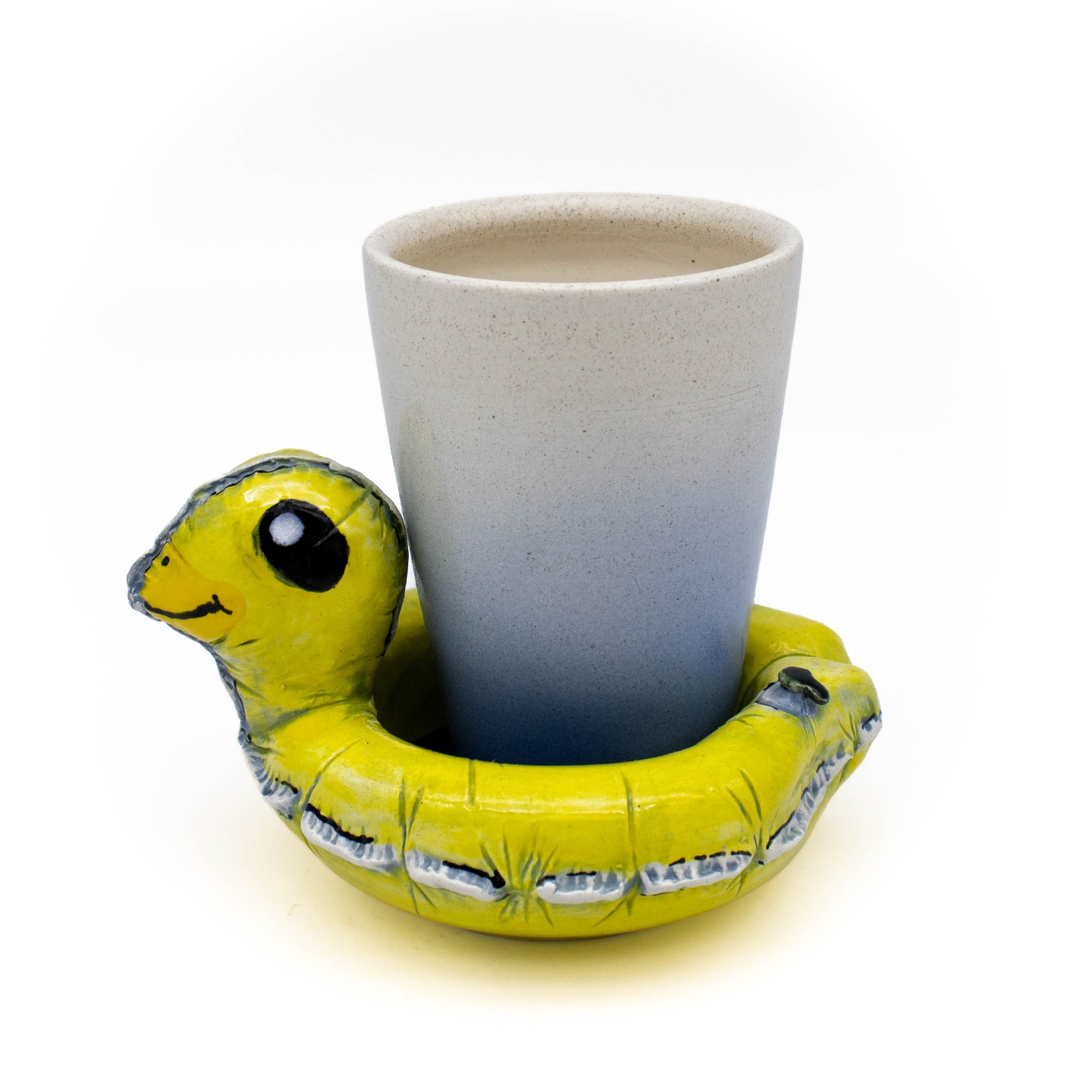
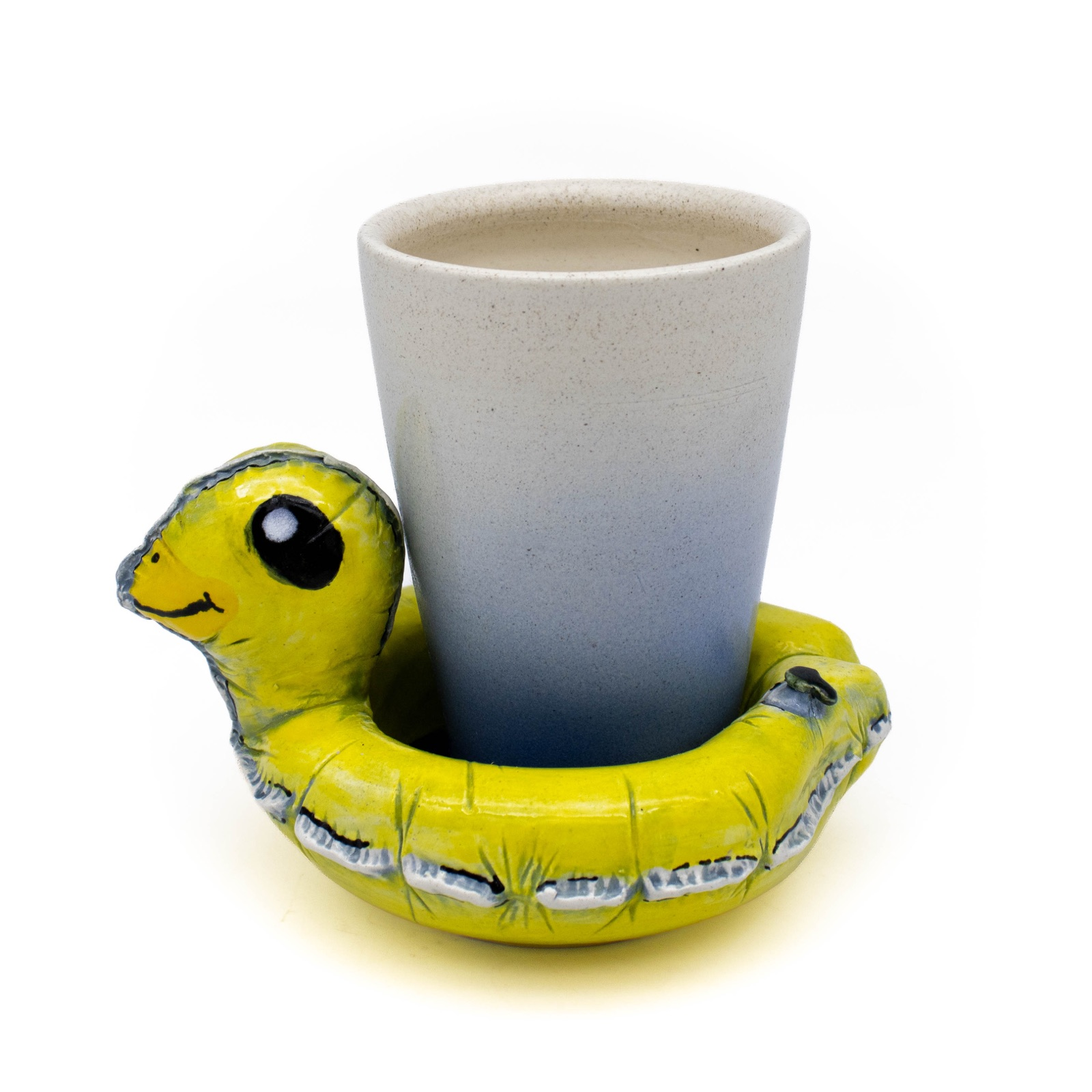
Replace Duck Cup I cover with updated photo

Changed region(s): [[0.0938, 0.3438, 0.8125, 0.9062], [0.3125, 0.1562, 0.75, 0.375], [0.2812, 0.5312, 0.3125, 0.5625]]

diff --git a/a-childs-idea-of-rescue.html b/a-childs-idea-of-rescue.html
@@ -2,7 +2,7 @@
 <html lang="en"><head><meta charset="utf-8"/><meta content="width=device-width,initial-scale=1" name="viewport"/><meta content="Ceramic cups by Joey Downey exploring safety, trust, and the promise of protection through the playful form of a life preserver." name="description"/><title>A Child’s Idea of Rescue | Joey Downey</title><link rel="icon" type="image/png" sizes="192x192" href="/favicon.png?v=jd-restored-20261031"/><link rel="apple-touch-icon" href="/favicon.png?v=jd-restored-20261031"/><style>500;600&family=Manrope:wght@400;500;600&display=swap');
 :root{--ink:#171717;--muted:#777;--border:#e7e7e7;--white:#fff}*{box-sizing:border-box}html{scroll-behavior:smooth}body{margin:0;background:#fff;color:var(--ink);font-family:Manrope,Arial,sans-serif;font-size:14px;line-height:1.75}a{color:inherit;text-decoration:none}a:hover{opacity:.6}img{display:block;max-width:100%}button{font:inherit}header{height:88px;border-bottom:1px solid var(--border);display:flex;align-items:center;justify-content:space-between;padding:0 5%;background:white;position:sticky;top:0;z-index:10}.brand{font-family:"Helvetica Neue",Helvetica,Arial,sans-serif;font-size:32px;letter-spacing:.06em;font-weight:200}.brand small{display:block;font-size:9px;font-weight:400;letter-spacing:.2em;color:var(--muted);text-transform:uppercase;margin-top:-4px}.nav{display:flex;gap:31px;align-items:center}.nav a{font-family:"Helvetica Neue",Helvetica,Arial,sans-serif;font-size:16px;font-weight:200;letter-spacing:.06em;text-transform:uppercase}.nav a.active{text-decoration:underline;text-underline-offset:7px}.menu{display:none;background:none;border:0;font-size:26px;cursor:pointer}.wrap{width:min(1300px,90%);margin:auto}.eyebrow{text-transform:uppercase;letter-spacing:.2em;font-size:10px;color:var(--muted);margin:0 0 24px}.home-hero{padding-top:80px;padding-bottom:105px;display:grid;grid-template-columns:40% 1fr;gap:6%;align-items:center}.home-hero h1{font-size:clamp(56px,8vw,125px);line-height:1.02;letter-spacing:-.07em;font-weight:400;margin:0 0 35px}.home-hero p.lead{max-width:360px;font-size:14px;color:#555;line-height:2}.home-image{height:610px;overflow:hidden}.home-image img{width:100%;height:100%;object-fit:contain}.arrow-link{display:inline-flex;gap:24px;align-items:center;font-size:11px;text-transform:uppercase;letter-spacing:.13em;border-bottom:1px solid #222;padding-bottom:10px;margin-top:21px}.section{padding:90px 0;border-top:1px solid var(--border)}.section-title{font-size:clamp(35px,5.5vw,70px);font-weight:400;letter-spacing:-.06em;line-height:1.15;margin:0 0 30px}.section-top{display:flex;justify-content:space-between;gap:35px;align-items:end;margin-bottom:40px}.section-top .section-title{margin:0}.section-top p{max-width:320px;color:#666;margin:0}.grid{display:grid;grid-template-columns:repeat(3,minmax(0,1fr));gap:55px 26px}.item img{height:390px;width:100%;object-fit:contain;background:#fff;transition:transform .25s}.item:hover img{transform:scale(1.025)}.item{cursor:pointer}.item-title{font-size:14px;font-weight:500;margin:17px 0 2px}.item-desc{color:#888;font-size:11px;margin:0}.split{display:grid;grid-template-columns:1fr 1fr;gap:10%;align-items:center}.split img{width:100%;height:530px;object-fit:contain}.split-text{max-width:550px}.split-text p{color:#555;line-height:2;font-size:14px}.quote{font-size:clamp(33px,5vw,76px);line-height:1.2;letter-spacing:-.05em;font-weight:400;max-width:950px;margin:0 0 34px}.statement-preview p{color:#666;max-width:640px}.events{border-top:1px solid var(--border)}.event{border-bottom:1px solid var(--border);padding:25px 0;display:grid;grid-template-columns:125px 1fr 235px;gap:20px;align-items:start}.event small,.event .place{color:#888;font-size:11px}.event h3{font-size:17px;font-weight:500;margin:0 0 5px}.event p{margin:0;color:#777;font-size:12px}.event .place{text-align:right}.page-hero{padding-top:85px;padding-bottom:70px}.page-hero h1{font-family:"Helvetica Neue",Helvetica,Arial,sans-serif;font-size:clamp(57px,9vw,125px);line-height:1.05;letter-spacing:.06em;font-weight:200;margin:0 0 20px}.page-hero p:last-child{max-width:570px;color:#666}.page-body{padding-bottom:110px}.prose{max-width:750px;font-size:16px;color:#484848;line-height:2.2}.prose p{margin:0 0 26px}.prose .quote{color:#171717;font-size:clamp(35px,6vw,78px);margin:0 0 60px}.about-layout{display:grid;grid-template-columns:42% 1fr;gap:9%;align-items:start}.portrait{width:100%;object-fit:cover;max-height:700px}.detail-heading{font-size:24px;font-weight:400;margin:50px 0 14px}.cvline{padding:16px 0;border-top:1px solid var(--border);font-size:13px}.cvline:last-child{border-bottom:1px solid var(--border)}.contact-email{font-size:clamp(27px,4.5vw,64px);letter-spacing:-.055em;overflow-wrap:anywhere;border-bottom:1px solid #222;display:inline-block;margin:45px 0}.contact-links{display:flex;gap:35px;font-size:12px;text-transform:uppercase;letter-spacing:.1em}.end-cta{padding:85px 0;border-top:1px solid var(--border)}.end-cta h2{font-size:clamp(32px,5vw,60px);font-weight:400;letter-spacing:-.055em;margin:0}.footer{border-top:1px solid var(--border);padding:30px 5%;display:flex;justify-content:space-between;gap:25px;color:#777;font-size:10px;letter-spacing:.04em}.lightbox{position:fixed;inset:0;z-index:99;background:rgba(255,255,255,.98);display:none;align-items:center;justify-content:center;flex-direction:column;padding:70px 5% 45px}.lightbox.show{display:flex}.lightbox img{max-width:90vw;max-height:75vh;object-fit:contain}.lightbox p{font-size:12px}.lightbox button{cursor:pointer;background:white;border:1px solid #ddd;padding:8px 15px}.lightbox .close{position:absolute;right:5%;top:25px;border:0;font-size:25px}.lightbox-controls{display:flex;gap:15px}@media(max-width:850px){header{height:72px}.menu{display:block}.nav{display:none;position:absolute;top:72px;left:0;right:0;flex-direction:column;align-items:flex-start;background:white;padding:24px 5%;border-bottom:1px solid #eee}.nav.open{display:flex}.home-hero{grid-template-columns:1fr;padding-top:50px;gap:35px}.home-image{height:480px}.grid{grid-template-columns:repeat(2,1fr)}.split,.about-layout{grid-template-columns:1fr;gap:35px}.split img{height:460px}.event{grid-template-columns:90px 1fr}.event .place{text-align:left;grid-column:2}.section{padding:70px 0}}@media(max-width:540px){.grid{grid-template-columns:1fr}.item img{height:440px}.section-top{display:block}.section-top p{margin-top:20px}.footer{flex-direction:column}.home-image{height:380px}.page-hero{padding-top:55px}.about-layout .portrait{max-height:470px}}
 .lightbox-images{display:flex;align-items:center;justify-content:center;gap:24px;width:100%;min-height:0}.lightbox-images img{min-width:0;max-width:100%;max-height:72vh;object-fit:contain}.lightbox-images.has-detail img{width:calc(50% - 12px)}.lightbox-images img[hidden]{display:none}@media(max-width:600px){.lightbox{overflow-y:auto}.lightbox-images.has-detail{flex-direction:column;gap:16px}.lightbox-images.has-detail img{width:100%;max-height:34vh}.lightbox-images:not(.has-detail) img{max-height:70vh}}#lb-caption{width:100%;max-width:900px;text-align:center;flex-shrink:0}#lb-title{font-weight:500;margin:14px 0 4px}#lb-details{font-size:12px;line-height:1.65;margin:0}#lb-details[hidden]{display:none}.lightbox{overflow-y:auto}.lightbox-images{flex:1;min-height:0}.lightbox-images img{max-height:60vh}@media(max-width:600px){.lightbox-images.has-detail img{max-height:27vh}.lightbox-images:not(.has-detail) img{max-height:55vh}}.lightbox-images.has-three img{width:calc((100% - 48px)/3)}@media(max-width:600px){.lightbox-images.has-three{flex-direction:row;flex-wrap:wrap;gap:12px}.lightbox-images.has-three img{width:calc(50% - 6px);max-height:24vh}.lightbox-images.has-three img:first-child{width:100%}}.page-hero h1,.home-hero h1{font-size:clamp(42px,6vw,76px);color:var(--ink)}h1,h2,h3,h4,h5,h6,p.eyebrow{color:var(--ink)}.page-hero h1,.home-hero h1,h1,h2,h3,h4,h5,h6,p.eyebrow{color:#484848}</style><style id="heading-typography">h1,h2,h3,h4,h5,h6{font-family:"Helvetica Neue",Helvetica,Arial,sans-serif!important;font-weight:200!important;letter-spacing:.06em!important}</style><style id="back-to-top-styles">.back-to-top{position:fixed;right:24px;bottom:24px;z-index:20;display:inline-flex;align-items:center;gap:10px;padding:12px 16px;border:1px solid #d9d9d9;background:#fff;color:#171717;box-shadow:0 2px 12px #0000000d;font:inherit;font-size:11px;letter-spacing:.06em;cursor:pointer}.back-to-top[hidden]{display:none}.back-to-top:hover{background:#f4f4f4}.back-to-top:focus-visible{outline:2px solid #171717;outline-offset:3px}@media(max-width:540px){.back-to-top{right:16px;bottom:16px}}</style>
-<style>.artwork-availability,.purchase-inquiry{display:block;margin:14px 0 0;font-size:11px;line-height:1.6;letter-spacing:.02em}.artwork-availability{color:#888}.purchase-inquiry{color:#333;text-decoration:underline;text-underline-offset:4px;width:fit-content;padding:4px 0}.purchase-inquiry:hover{color:#000}.purchase-inquiry:focus-visible{outline:2px solid #333;outline-offset:5px}#lb-availability{margin-top:16px}#lb-availability .purchase-inquiry{color:inherit;margin:0 auto;padding:0;font-size:12px;line-height:1.65;letter-spacing:normal}#lb-availability:empty{display:none}.artwork-nav{position:fixed;top:50%;transform:translateY(-50%);z-index:10;display:grid;place-items:center;width:46px;height:56px;padding:0;border:1px solid #ccc;border-radius:4px;background:#eee;color:#666;font-family:Arial,sans-serif;font-size:40px;line-height:1;cursor:pointer}.artwork-prev{left:16px}.artwork-next{right:16px}.artwork-nav:hover{background:#444;border-color:#444;color:#fff}.artwork-nav:focus-visible{outline:2px solid #888;outline-offset:4px}@media(max-width:600px){.artwork-nav{width:36px;height:46px;font-size:32px}.artwork-prev{left:8px}.artwork-next{right:8px}}</style><style id="home-nav-styles">.nav .home-nav{display:block;opacity:1;visibility:visible;flex-shrink:0}@keyframes home-nav-fade{from{opacity:0}to{opacity:1}}.home-nav-enter .nav a,.home-nav-enter header>.brand{animation:home-nav-fade 1.2s ease}@media(min-width:851px) and (max-width:1100px){header .brand{font-size:26px}.nav{gap:16px}.nav a{font-size:13px}}@media(prefers-reduced-motion:reduce){.nav .home-nav,.home-nav-enter .nav a,.home-nav-enter header>.brand{animation:none}}</style><style id="home-return-fade">.home-nav-leave header>.brand,.home-nav-leave .nav a{animation:none!important;opacity:0;transition:opacity .4s ease}@media(prefers-reduced-motion:reduce){.home-nav-leave header>.brand,.home-nav-leave .nav a{transition:none}}</style><style id="home-transition-pending">.home-nav-pending header>.brand,.home-nav-pending .nav a{opacity:0}@media(prefers-reduced-motion:reduce){.home-nav-pending header>.brand,.home-nav-pending .nav a{opacity:1}}</style><link rel="stylesheet" href="navigation.css?v=1"/><script src="navigation.js?v=3"></script><style>.lightbox-images.has-many{display:grid;grid-template-columns:repeat(3,minmax(0,1fr));gap:16px;flex:0 0 auto}.lightbox-images.has-many img,.lightbox-images.has-many img:first-child{width:100%;height:25vh;max-height:25vh}@media(max-width:600px){.lightbox-images.has-many{grid-template-columns:repeat(2,minmax(0,1fr));gap:10px}.lightbox-images.has-many img,.lightbox-images.has-many img:first-child{height:19vh;max-height:19vh}}</style><style>.item-price{display:inline-block;margin-top:8px;color:#484848;font-size:13px;font-weight:500}</style></head><body><header><a class="brand" href="index.html">JOEY DOWNEY<small>Contemporary ceramic sculpture</small></a><button aria-expanded="false" aria-label="Toggle menu" class="menu">☰</button><nav class="nav"><a class="home-nav" href="index.html">Home</a><details class="portfolio-menu"><summary class="active">Portfolio <svg aria-hidden="true" width="10" height="6" viewBox="0 0 10 6" fill="none"><path d="m1 1 4 4 4-4" stroke="currentColor" stroke-width="1.2"/></svg></summary><div class="portfolio-options"><a href="portfolio.html">Portfolio</a><a href="a-childs-idea-of-rescue.html" aria-current="page">A Child’s Idea of Rescue</a></div></details><a class="" href="statement.html">Statement</a><a class="" href="about.html">About</a><a class="" href="exhibitions.html">Exhibitions</a><a class="" href="contact.html">Contact</a></nav></header><main><div class="wrap"><section class="page-hero rescue-hero"><p class="eyebrow">Cups · 2026</p><h1>A Child’s Idea of Rescue</h1><div class="rescue-introduction"><p>This series explores the fragile relationship between safety, trust, and the expectations we place upon the things we believe will protect us.</p><p>Drawing upon the familiar form of a life preserver, an object designed to offer security in moments of vulnerability, the work presents a contradiction between the promise of protection and the reality of its limitations. Its recognizable, playful imagery evokes a sense of innocence and familiarity while quietly questioning the reliability of the structures we depend upon.</p></div></section><section class="page-body" aria-label="Cup collection"><div class="grid"><div class="artwork-card"><article class="item" role="button" tabindex="0" aria-label="View Lion Cup" data-title="Lion Cup" data-full="cups/IMG_8681.jpg" data-detail="cups/IMG_8682.jpg" data-third="cups/IMG_8683.jpg"><img alt="Lion Cup by Joey Downey" loading="lazy" src="assets/cups/IMG_8681.jpg"/><h3 class="item-title">Lion Cup</h3><p class="item-desc">Earthenware, glaze, underglaze<br/>5.5&quot; x 6&quot; x 5.5&quot;<br/>2026<br/><span class="item-price">$250</span></p></article></div><div class="artwork-card"><article class="item" role="button" tabindex="0" aria-label="View Chicken Cup" data-title="Chicken Cup" data-full="cups/IMG_8720.jpg" data-detail="cups/IMG_8722.jpg" data-third="cups/IMG_8721.jpg"><img alt="Chicken Cup by Joey Downey" loading="lazy" src="assets/cups/IMG_8720.jpg"/><h3 class="item-title">Chicken Cup</h3><p class="item-desc">Earthenware, glaze, underglaze<br/>5.5&quot; x 6&quot; x 5.5&quot;<br/>2026<br/><span class="item-price">$250</span></p></article></div><div class="artwork-card"><article class="item" role="button" tabindex="0" aria-label="View Giraffe Cup" data-title="Giraffe Cup" data-full="cups/IMG_8689.jpg" data-detail="cups/IMG_8690.jpg"><img alt="Giraffe Cup by Joey Downey" loading="lazy" src="assets/cups/IMG_8689.jpg"/><h3 class="item-title">Giraffe Cup</h3><p class="item-desc">Earthenware, glaze, underglaze<br/>5.5&quot; x 6&quot; x 5.5&quot;<br/>2026<br/><span class="item-price">$250</span></p></article></div><div class="artwork-card"><article class="item" role="button" tabindex="0" aria-label="View Puffin Cup" data-title="Puffin Cup" data-full="cups/IMG_8684.jpg" data-detail="cups/IMG_8686.jpg"><img alt="Puffin Cup by Joey Downey" loading="lazy" src="assets/cups/IMG_8684.jpg"/><h3 class="item-title">Puffin Cup</h3><p class="item-desc">Earthenware, glaze, underglaze<br/>5.5&quot; x 6&quot; x 5.5&quot;<br/>2026<br/><span class="item-price">$250</span></p></article></div><div class="artwork-card"><article class="item" role="button" tabindex="0" aria-label="View Duck Cup II" data-title="Duck Cup II" data-full="cups/IMG_8679.jpg" data-detail="cups/IMG_8680.jpg"><img alt="Duck Cup II by Joey Downey" loading="lazy" src="assets/cups/IMG_8679.jpg"/><h3 class="item-title">Duck Cup II</h3><p class="item-desc">Earthenware, glaze, underglaze<br/>5.5&quot; x 6&quot; x 5.5&quot;<br/>2026<br/><span class="item-price">$250</span></p></article></div><div class="artwork-card"><article class="item" role="button" tabindex="0" aria-label="View Penguin Cup" data-title="Penguin Cup" data-full="cups/IMG_8687.jpg" data-detail="cups/IMG_8688.jpg"><img alt="Penguin Cup by Joey Downey" loading="lazy" src="assets/cups/IMG_8687.jpg"/><h3 class="item-title">Penguin Cup</h3><p class="item-desc">Earthenware, glaze, underglaze<br/>5.5&quot; x 6&quot; x 5.5&quot;<br/>2026<br/><span class="item-price">$250</span></p></article></div><div class="artwork-card"><article class="item" role="button" tabindex="0" aria-label="View Unicorn Cup" data-title="Unicorn Cup" data-full="cups/IMG_8694.jpg" data-detail="cups/IMG_8696.jpg" data-third="cups/IMG_8695.jpg"><img alt="Unicorn Cup by Joey Downey" loading="lazy" src="assets/cups/IMG_8694.jpg"/><h3 class="item-title">Unicorn Cup</h3><p class="item-desc">Earthenware, glaze, underglaze, luster<br/>5.5&quot; x 6&quot; x 5.5&quot;<br/>2026<br/><span class="item-price">$275</span></p></article></div><div class="artwork-card"><article class="item" role="button" tabindex="0" aria-label="View Duck Cup III" data-title="Duck Cup III" data-full="cups/IMG_8691.jpg" data-detail="cups/IMG_8692.jpg"><img alt="Duck Cup III by Joey Downey" loading="lazy" src="assets/cups/IMG_8691.jpg"/><h3 class="item-title">Duck Cup III</h3><p class="item-desc">Earthenware, glaze, underglaze<br/>5.5&quot; x 6&quot; x 5.5&quot;<br/>2026<br/><span class="item-price">$250</span></p></article></div><div class="artwork-card"><article class="item" role="button" tabindex="0" aria-label="View Bear Cup" data-title="Bear Cup" data-full="cups/IMG_8702.jpg" data-detail="cups/IMG_8703.jpg"><img alt="Bear Cup by Joey Downey" loading="lazy" src="assets/cups/IMG_8702.jpg"/><h3 class="item-title">Bear Cup</h3><p class="item-desc">Earthenware, glaze, underglaze<br/>5.5&quot; x 6&quot; x 5.5&quot;<br/>2026<br/><span class="item-price">$250</span></p></article></div><div class="artwork-card"><article class="item" role="button" tabindex="0" aria-label="View Dog Cup" data-title="Dog Cup" data-full="cups/IMG_8709.jpg" data-detail="cups/IMG_8711.jpg" data-third="cups/IMG_8710.jpg"><img alt="Dog Cup by Joey Downey" loading="lazy" src="assets/cups/IMG_8709.jpg"/><h3 class="item-title">Dog Cup</h3><p class="item-desc">Earthenware, glaze, underglaze, luster<br/>5.5&quot; x 6&quot; x 5.5&quot;<br/>2026<br/><span class="item-price">$275</span></p></article></div><div class="artwork-card"><article class="item" role="button" tabindex="0" aria-label="View Cat Cup" data-title="Cat Cup" data-full="cups/IMG_8704.jpg" data-detail="cups/IMG_8705.jpg"><img alt="Cat Cup by Joey Downey" loading="lazy" src="assets/cups/IMG_8704.jpg"/><h3 class="item-title">Cat Cup</h3><p class="item-desc">Earthenware, glaze, underglaze<br/>5.5&quot; x 6&quot; x 5.5&quot;<br/>2026<br/><span class="item-price">$250</span></p></article></div><div class="artwork-card"><article class="item" role="button" tabindex="0" aria-label="View Duck Cup IV" data-title="Duck Cup IV" data-full="cups/IMG_8707.jpg" data-detail="cups/IMG_8708.jpg"><img alt="Duck Cup IV by Joey Downey" loading="lazy" src="assets/cups/IMG_8707.jpg"/><h3 class="item-title">Duck Cup IV</h3><p class="item-desc">Earthenware, glaze, underglaze<br/>5.5&quot; x 6&quot; x 5.5&quot;<br/>2026<br/><span class="item-price">$250</span></p></article></div><div class="artwork-card"><article class="item" role="button" tabindex="0" aria-label="View Rabbit Cup" data-title="Rabbit Cup" data-full="cups/IMG_8718.jpg" data-detail="cups/IMG_8719.jpg" data-third="cups/IMG_8717.jpg"><img alt="Rabbit Cup by Joey Downey" loading="lazy" src="assets/cups/IMG_8718.jpg"/><h3 class="item-title">Rabbit Cup</h3><p class="item-desc">Earthenware, glaze, underglaze<br/>5.5&quot; x 6&quot; x 5.5&quot;<br/>2026<br/><span class="item-price">$250</span></p></article></div><div class="artwork-card"><article class="item" role="button" tabindex="0" aria-label="View Deer Cup" data-title="Deer Cup" data-full="cups/IMG_8712.jpg" data-detail="cups/IMG_8715.jpg" data-third="cups/IMG_8714.jpg"><img alt="Deer Cup by Joey Downey" loading="lazy" src="assets/cups/IMG_8712.jpg"/><h3 class="item-title">Deer Cup</h3><p class="item-desc">Earthenware, glaze, underglaze<br/>5.5&quot; x 6&quot; x 5.5&quot;<br/>2026<br/><span class="item-price">$250</span></p></article></div><div class="artwork-card"><article class="item" role="button" tabindex="0" aria-label="View Swan Cup" data-title="Swan Cup" data-full="cups/IMG_8693.jpg"><img alt="Swan Cup by Joey Downey" loading="lazy" src="assets/cups/IMG_8693.jpg?v=20261112-edited-2"/><h3 class="item-title">Swan Cup</h3><p class="item-desc">Earthenware, glaze, underglaze<br/>5.5&quot; x 6&quot; x 5.5&quot;<br/>2026<br/><span class="item-price"><p class="item-desc">Earthenware, glaze, underglaze<br/>5.5&quot; x 6&quot; x 5.5&quot;<br/>202650</span></p></article></div><div class="artwork-card"><article class="item" role="button" tabindex="0" aria-label="View Pink Ring Cup" data-title="Pink Ring Cup" data-full="cups/IMG_8699.jpg" data-detail="cups/IMG_8698.jpg"><img alt="Pink Ring Cup by Joey Downey" loading="lazy" src="assets/cups/IMG_8699.jpg"/><h3 class="item-title">Pink Ring Cup</h3><p class="item-desc">Earthenware, glaze, underglaze<br/>5.5&quot; x 6&quot; x 5.5&quot;<br/>2026<br/><span class="item-price"><p class="item-desc">Earthenware, glaze, underglaze<br/>5.5&quot; x 6&quot; x 5.5&quot;<br/>202650</span></p></article></div><div class="artwork-card"><article class="item" role="button" tabindex="0" aria-label="View White Ring Cup" data-title="White Ring Cup" data-full="cups/IMG_8700.jpg" data-detail="cups/IMG_8701.jpg"><img alt="White Ring Cup by Joey Downey" loading="lazy" src="assets/cups/IMG_8700.jpg"/><h3 class="item-title">White Ring Cup</h3><p class="item-desc">Earthenware, glaze, underglaze<br/>5.5&quot; x 6&quot; x 5.5&quot;<br/>2026<br/><span class="item-price"><p class="item-desc">Earthenware, glaze, underglaze<br/>5.5&quot; x 6&quot; x 5.5&quot;<br/>202650</span></p></article></div><div class="artwork-card"><article aria-label="View Duck Cup I" class="item" data-full="cups/IMG_8671.jpg" data-detail="cups/IMG_8670.jpg" data-third="cups/IMG_8672.jpg" data-title="Duck Cup I" role="button" tabindex="0"><img alt="Duck Cup I by Joey Downey, with the yellow duck facing left" loading="lazy" src="assets/cups/IMG_8671.jpg"/><h3 class="item-title">Duck Cup I</h3><p class="item-desc">Earthenware, glaze, underglaze<br/>5.5&quot; x 6&quot; x 5.5&quot;<br/>2026<br/><span class="item-price">NFS</span></p></article></div></div></section></div><div aria-label="Artwork image viewer" class="lightbox" id="lightbox" role="dialog"><button aria-label="Close" class="close">×</button><button type="button" class="artwork-nav artwork-prev" aria-label="Previous artwork"><svg aria-hidden="true" focusable="false" width="20" height="28" viewBox="0 0 20 28" fill="none" stroke="currentColor" stroke-width="2" stroke-linecap="round" stroke-linejoin="round"><path d="m14 5-9 9 9 9"/></svg></button><button type="button" class="artwork-nav artwork-next" aria-label="Next artwork"><svg aria-hidden="true" focusable="false" width="20" height="28" viewBox="0 0 20 28" fill="none" stroke="currentColor" stroke-width="2" stroke-linecap="round" stroke-linejoin="round"><path d="m6 5 9 9-9 9"/></svg></button><div class="lightbox-images"><img alt="Artwork enlarged" id="lb-img"/><img alt="Artwork detail" id="lb-detail-img" hidden=""/><img alt="Artwork additional view" id="lb-third-img" hidden=""/></div><div id="lb-caption"><p id="lb-title"></p><p id="lb-details"></p><div id="lb-availability"></div></div></div></main><footer class="footer"><span>© 2026 Joey Downey. All artwork images © Joey Downey. <span class="last-edited">Last edited: <time datetime="2026-11-12">November 12, 2026</time></span></span><span>Contemporary ceramics &amp; mixed media</span><a href="mailto:joeydowneyart@gmail.com">Contact ↗</a></footer><script>const ART_IMAGES={"cups/IMG_8679.jpg":"assets/cups/IMG_8679.jpg","cups/IMG_8680.jpg":"assets/cups/IMG_8680.jpg","cups/IMG_8681.jpg":"assets/cups/IMG_8681.jpg","cups/IMG_8682.jpg":"assets/cups/IMG_8682.jpg","cups/IMG_8683.jpg":"assets/cups/IMG_8683.jpg","cups/IMG_8684.jpg":"assets/cups/IMG_8684.jpg","cups/IMG_8686.jpg":"assets/cups/IMG_8686.jpg","cups/IMG_8687.jpg":"assets/cups/IMG_8687.jpg","cups/IMG_8688.jpg":"assets/cups/IMG_8688.jpg","cups/IMG_8689.jpg":"assets/cups/IMG_8689.jpg","cups/IMG_8690.jpg":"assets/cups/IMG_8690.jpg","cups/IMG_8691.jpg":"assets/cups/IMG_8691.jpg","cups/IMG_8692.jpg":"assets/cups/IMG_8692.jpg","cups/IMG_8693.jpg":"assets/cups/IMG_8693.jpg?v=20261112-edited-2","cups/IMG_8694.jpg":"assets/cups/IMG_8694.jpg","cups/IMG_8696.jpg":"assets/cups/IMG_8696.jpg","cups/IMG_8695.jpg":"assets/cups/IMG_8695.jpg","cups/IMG_8699.jpg":"assets/cups/IMG_8699.jpg","cups/IMG_8698.jpg":"assets/cups/IMG_8698.jpg","cups/IMG_8700.jpg":"assets/cups/IMG_8700.jpg","cups/IMG_8701.jpg":"assets/cups/IMG_8701.jpg","cups/IMG_8702.jpg":"assets/cups/IMG_8702.jpg","cups/IMG_8703.jpg":"assets/cups/IMG_8703.jpg","cups/IMG_8704.jpg":"assets/cups/IMG_8704.jpg","cups/IMG_8705.jpg":"assets/cups/IMG_8705.jpg","cups/IMG_8707.jpg":"assets/cups/IMG_8707.jpg","cups/IMG_8708.jpg":"assets/cups/IMG_8708.jpg","cups/IMG_8709.jpg":"assets/cups/IMG_8709.jpg","cups/IMG_8711.jpg":"assets/cups/IMG_8711.jpg","cups/IMG_8710.jpg":"assets/cups/IMG_8710.jpg?v=20261112-edited-2","cups/IMG_8712.jpg":"assets/cups/IMG_8712.jpg","cups/IMG_8715.jpg":"assets/cups/IMG_8715.jpg","cups/IMG_8714.jpg":"assets/cups/IMG_8714.jpg","cups/IMG_8718.jpg":"assets/cups/IMG_8718.jpg","cups/IMG_8719.jpg":"assets/cups/IMG_8719.jpg","cups/IMG_8717.jpg":"assets/cups/IMG_8717.jpg","cups/IMG_8720.jpg":"assets/cups/IMG_8720.jpg","cups/IMG_8722.jpg":"assets/cups/IMG_8722.jpg","cups/IMG_8721.jpg":"assets/cups/IMG_8721.jpg","cups/IMG_8670.jpg":"assets/cups/IMG_8670.jpg","cups/IMG_8671.jpg":"assets/cups/IMG_8671.jpg","cups/IMG_8672.jpg":"assets/cups/IMG_8672.jpg"};
+<style>.artwork-availability,.purchase-inquiry{display:block;margin:14px 0 0;font-size:11px;line-height:1.6;letter-spacing:.02em}.artwork-availability{color:#888}.purchase-inquiry{color:#333;text-decoration:underline;text-underline-offset:4px;width:fit-content;padding:4px 0}.purchase-inquiry:hover{color:#000}.purchase-inquiry:focus-visible{outline:2px solid #333;outline-offset:5px}#lb-availability{margin-top:16px}#lb-availability .purchase-inquiry{color:inherit;margin:0 auto;padding:0;font-size:12px;line-height:1.65;letter-spacing:normal}#lb-availability:empty{display:none}.artwork-nav{position:fixed;top:50%;transform:translateY(-50%);z-index:10;display:grid;place-items:center;width:46px;height:56px;padding:0;border:1px solid #ccc;border-radius:4px;background:#eee;color:#666;font-family:Arial,sans-serif;font-size:40px;line-height:1;cursor:pointer}.artwork-prev{left:16px}.artwork-next{right:16px}.artwork-nav:hover{background:#444;border-color:#444;color:#fff}.artwork-nav:focus-visible{outline:2px solid #888;outline-offset:4px}@media(max-width:600px){.artwork-nav{width:36px;height:46px;font-size:32px}.artwork-prev{left:8px}.artwork-next{right:8px}}</style><style id="home-nav-styles">.nav .home-nav{display:block;opacity:1;visibility:visible;flex-shrink:0}@keyframes home-nav-fade{from{opacity:0}to{opacity:1}}.home-nav-enter .nav a,.home-nav-enter header>.brand{animation:home-nav-fade 1.2s ease}@media(min-width:851px) and (max-width:1100px){header .brand{font-size:26px}.nav{gap:16px}.nav a{font-size:13px}}@media(prefers-reduced-motion:reduce){.nav .home-nav,.home-nav-enter .nav a,.home-nav-enter header>.brand{animation:none}}</style><style id="home-return-fade">.home-nav-leave header>.brand,.home-nav-leave .nav a{animation:none!important;opacity:0;transition:opacity .4s ease}@media(prefers-reduced-motion:reduce){.home-nav-leave header>.brand,.home-nav-leave .nav a{transition:none}}</style><style id="home-transition-pending">.home-nav-pending header>.brand,.home-nav-pending .nav a{opacity:0}@media(prefers-reduced-motion:reduce){.home-nav-pending header>.brand,.home-nav-pending .nav a{opacity:1}}</style><link rel="stylesheet" href="navigation.css?v=1"/><script src="navigation.js?v=3"></script><style>.lightbox-images.has-many{display:grid;grid-template-columns:repeat(3,minmax(0,1fr));gap:16px;flex:0 0 auto}.lightbox-images.has-many img,.lightbox-images.has-many img:first-child{width:100%;height:25vh;max-height:25vh}@media(max-width:600px){.lightbox-images.has-many{grid-template-columns:repeat(2,minmax(0,1fr));gap:10px}.lightbox-images.has-many img,.lightbox-images.has-many img:first-child{height:19vh;max-height:19vh}}</style><style>.item-price{display:inline-block;margin-top:8px;color:#484848;font-size:13px;font-weight:500}</style></head><body><header><a class="brand" href="index.html">JOEY DOWNEY<small>Contemporary ceramic sculpture</small></a><button aria-expanded="false" aria-label="Toggle menu" class="menu">☰</button><nav class="nav"><a class="home-nav" href="index.html">Home</a><details class="portfolio-menu"><summary class="active">Portfolio <svg aria-hidden="true" width="10" height="6" viewBox="0 0 10 6" fill="none"><path d="m1 1 4 4 4-4" stroke="currentColor" stroke-width="1.2"/></svg></summary><div class="portfolio-options"><a href="portfolio.html">Portfolio</a><a href="a-childs-idea-of-rescue.html" aria-current="page">A Child’s Idea of Rescue</a></div></details><a class="" href="statement.html">Statement</a><a class="" href="about.html">About</a><a class="" href="exhibitions.html">Exhibitions</a><a class="" href="contact.html">Contact</a></nav></header><main><div class="wrap"><section class="page-hero rescue-hero"><p class="eyebrow">Cups · 2026</p><h1>A Child’s Idea of Rescue</h1><div class="rescue-introduction"><p>This series explores the fragile relationship between safety, trust, and the expectations we place upon the things we believe will protect us.</p><p>Drawing upon the familiar form of a life preserver, an object designed to offer security in moments of vulnerability, the work presents a contradiction between the promise of protection and the reality of its limitations. Its recognizable, playful imagery evokes a sense of innocence and familiarity while quietly questioning the reliability of the structures we depend upon.</p></div></section><section class="page-body" aria-label="Cup collection"><div class="grid"><div class="artwork-card"><article class="item" role="button" tabindex="0" aria-label="View Lion Cup" data-title="Lion Cup" data-full="cups/IMG_8681.jpg" data-detail="cups/IMG_8682.jpg" data-third="cups/IMG_8683.jpg"><img alt="Lion Cup by Joey Downey" loading="lazy" src="assets/cups/IMG_8681.jpg"/><h3 class="item-title">Lion Cup</h3><p class="item-desc">Earthenware, glaze, underglaze<br/>5.5&quot; x 6&quot; x 5.5&quot;<br/>2026<br/><span class="item-price">$250</span></p></article></div><div class="artwork-card"><article class="item" role="button" tabindex="0" aria-label="View Chicken Cup" data-title="Chicken Cup" data-full="cups/IMG_8720.jpg" data-detail="cups/IMG_8722.jpg" data-third="cups/IMG_8721.jpg"><img alt="Chicken Cup by Joey Downey" loading="lazy" src="assets/cups/IMG_8720.jpg"/><h3 class="item-title">Chicken Cup</h3><p class="item-desc">Earthenware, glaze, underglaze<br/>5.5&quot; x 6&quot; x 5.5&quot;<br/>2026<br/><span class="item-price">$250</span></p></article></div><div class="artwork-card"><article class="item" role="button" tabindex="0" aria-label="View Giraffe Cup" data-title="Giraffe Cup" data-full="cups/IMG_8689.jpg" data-detail="cups/IMG_8690.jpg"><img alt="Giraffe Cup by Joey Downey" loading="lazy" src="assets/cups/IMG_8689.jpg"/><h3 class="item-title">Giraffe Cup</h3><p class="item-desc">Earthenware, glaze, underglaze<br/>5.5&quot; x 6&quot; x 5.5&quot;<br/>2026<br/><span class="item-price">$250</span></p></article></div><div class="artwork-card"><article class="item" role="button" tabindex="0" aria-label="View Puffin Cup" data-title="Puffin Cup" data-full="cups/IMG_8684.jpg" data-detail="cups/IMG_8686.jpg"><img alt="Puffin Cup by Joey Downey" loading="lazy" src="assets/cups/IMG_8684.jpg"/><h3 class="item-title">Puffin Cup</h3><p class="item-desc">Earthenware, glaze, underglaze<br/>5.5&quot; x 6&quot; x 5.5&quot;<br/>2026<br/><span class="item-price">$250</span></p></article></div><div class="artwork-card"><article class="item" role="button" tabindex="0" aria-label="View Duck Cup II" data-title="Duck Cup II" data-full="cups/IMG_8679.jpg" data-detail="cups/IMG_8680.jpg"><img alt="Duck Cup II by Joey Downey" loading="lazy" src="assets/cups/IMG_8679.jpg"/><h3 class="item-title">Duck Cup II</h3><p class="item-desc">Earthenware, glaze, underglaze<br/>5.5&quot; x 6&quot; x 5.5&quot;<br/>2026<br/><span class="item-price">$250</span></p></article></div><div class="artwork-card"><article class="item" role="button" tabindex="0" aria-label="View Penguin Cup" data-title="Penguin Cup" data-full="cups/IMG_8687.jpg" data-detail="cups/IMG_8688.jpg"><img alt="Penguin Cup by Joey Downey" loading="lazy" src="assets/cups/IMG_8687.jpg"/><h3 class="item-title">Penguin Cup</h3><p class="item-desc">Earthenware, glaze, underglaze<br/>5.5&quot; x 6&quot; x 5.5&quot;<br/>2026<br/><span class="item-price">$250</span></p></article></div><div class="artwork-card"><article class="item" role="button" tabindex="0" aria-label="View Unicorn Cup" data-title="Unicorn Cup" data-full="cups/IMG_8694.jpg" data-detail="cups/IMG_8696.jpg" data-third="cups/IMG_8695.jpg"><img alt="Unicorn Cup by Joey Downey" loading="lazy" src="assets/cups/IMG_8694.jpg"/><h3 class="item-title">Unicorn Cup</h3><p class="item-desc">Earthenware, glaze, underglaze, luster<br/>5.5&quot; x 6&quot; x 5.5&quot;<br/>2026<br/><span class="item-price">$275</span></p></article></div><div class="artwork-card"><article class="item" role="button" tabindex="0" aria-label="View Duck Cup III" data-title="Duck Cup III" data-full="cups/IMG_8691.jpg" data-detail="cups/IMG_8692.jpg"><img alt="Duck Cup III by Joey Downey" loading="lazy" src="assets/cups/IMG_8691.jpg"/><h3 class="item-title">Duck Cup III</h3><p class="item-desc">Earthenware, glaze, underglaze<br/>5.5&quot; x 6&quot; x 5.5&quot;<br/>2026<br/><span class="item-price">$250</span></p></article></div><div class="artwork-card"><article class="item" role="button" tabindex="0" aria-label="View Bear Cup" data-title="Bear Cup" data-full="cups/IMG_8702.jpg" data-detail="cups/IMG_8703.jpg"><img alt="Bear Cup by Joey Downey" loading="lazy" src="assets/cups/IMG_8702.jpg"/><h3 class="item-title">Bear Cup</h3><p class="item-desc">Earthenware, glaze, underglaze<br/>5.5&quot; x 6&quot; x 5.5&quot;<br/>2026<br/><span class="item-price">$250</span></p></article></div><div class="artwork-card"><article class="item" role="button" tabindex="0" aria-label="View Dog Cup" data-title="Dog Cup" data-full="cups/IMG_8709.jpg" data-detail="cups/IMG_8711.jpg" data-third="cups/IMG_8710.jpg"><img alt="Dog Cup by Joey Downey" loading="lazy" src="assets/cups/IMG_8709.jpg"/><h3 class="item-title">Dog Cup</h3><p class="item-desc">Earthenware, glaze, underglaze, luster<br/>5.5&quot; x 6&quot; x 5.5&quot;<br/>2026<br/><span class="item-price">$275</span></p></article></div><div class="artwork-card"><article class="item" role="button" tabindex="0" aria-label="View Cat Cup" data-title="Cat Cup" data-full="cups/IMG_8704.jpg" data-detail="cups/IMG_8705.jpg"><img alt="Cat Cup by Joey Downey" loading="lazy" src="assets/cups/IMG_8704.jpg"/><h3 class="item-title">Cat Cup</h3><p class="item-desc">Earthenware, glaze, underglaze<br/>5.5&quot; x 6&quot; x 5.5&quot;<br/>2026<br/><span class="item-price">$250</span></p></article></div><div class="artwork-card"><article class="item" role="button" tabindex="0" aria-label="View Duck Cup IV" data-title="Duck Cup IV" data-full="cups/IMG_8707.jpg" data-detail="cups/IMG_8708.jpg"><img alt="Duck Cup IV by Joey Downey" loading="lazy" src="assets/cups/IMG_8707.jpg"/><h3 class="item-title">Duck Cup IV</h3><p class="item-desc">Earthenware, glaze, underglaze<br/>5.5&quot; x 6&quot; x 5.5&quot;<br/>2026<br/><span class="item-price">$250</span></p></article></div><div class="artwork-card"><article class="item" role="button" tabindex="0" aria-label="View Rabbit Cup" data-title="Rabbit Cup" data-full="cups/IMG_8718.jpg" data-detail="cups/IMG_8719.jpg" data-third="cups/IMG_8717.jpg"><img alt="Rabbit Cup by Joey Downey" loading="lazy" src="assets/cups/IMG_8718.jpg"/><h3 class="item-title">Rabbit Cup</h3><p class="item-desc">Earthenware, glaze, underglaze<br/>5.5&quot; x 6&quot; x 5.5&quot;<br/>2026<br/><span class="item-price">$250</span></p></article></div><div class="artwork-card"><article class="item" role="button" tabindex="0" aria-label="View Deer Cup" data-title="Deer Cup" data-full="cups/IMG_8712.jpg" data-detail="cups/IMG_8715.jpg" data-third="cups/IMG_8714.jpg"><img alt="Deer Cup by Joey Downey" loading="lazy" src="assets/cups/IMG_8712.jpg"/><h3 class="item-title">Deer Cup</h3><p class="item-desc">Earthenware, glaze, underglaze<br/>5.5&quot; x 6&quot; x 5.5&quot;<br/>2026<br/><span class="item-price">$250</span></p></article></div><div class="artwork-card"><article class="item" role="button" tabindex="0" aria-label="View Swan Cup" data-title="Swan Cup" data-full="cups/IMG_8693.jpg"><img alt="Swan Cup by Joey Downey" loading="lazy" src="assets/cups/IMG_8693.jpg?v=20261112-edited-2"/><h3 class="item-title">Swan Cup</h3><p class="item-desc">Earthenware, glaze, underglaze<br/>5.5&quot; x 6&quot; x 5.5&quot;<br/>2026<br/><span class="item-price"><p class="item-desc">Earthenware, glaze, underglaze<br/>5.5&quot; x 6&quot; x 5.5&quot;<br/>202650</span></p></article></div><div class="artwork-card"><article class="item" role="button" tabindex="0" aria-label="View Pink Ring Cup" data-title="Pink Ring Cup" data-full="cups/IMG_8699.jpg" data-detail="cups/IMG_8698.jpg"><img alt="Pink Ring Cup by Joey Downey" loading="lazy" src="assets/cups/IMG_8699.jpg"/><h3 class="item-title">Pink Ring Cup</h3><p class="item-desc">Earthenware, glaze, underglaze<br/>5.5&quot; x 6&quot; x 5.5&quot;<br/>2026<br/><span class="item-price"><p class="item-desc">Earthenware, glaze, underglaze<br/>5.5&quot; x 6&quot; x 5.5&quot;<br/>202650</span></p></article></div><div class="artwork-card"><article class="item" role="button" tabindex="0" aria-label="View White Ring Cup" data-title="White Ring Cup" data-full="cups/IMG_8700.jpg" data-detail="cups/IMG_8701.jpg"><img alt="White Ring Cup by Joey Downey" loading="lazy" src="assets/cups/IMG_8700.jpg"/><h3 class="item-title">White Ring Cup</h3><p class="item-desc">Earthenware, glaze, underglaze<br/>5.5&quot; x 6&quot; x 5.5&quot;<br/>2026<br/><span class="item-price"><p class="item-desc">Earthenware, glaze, underglaze<br/>5.5&quot; x 6&quot; x 5.5&quot;<br/>202650</span></p></article></div><div class="artwork-card"><article aria-label="View Duck Cup I" class="item" data-full="cups/IMG_8671.jpg" data-detail="cups/IMG_8670.jpg" data-third="cups/IMG_8672.jpg" data-title="Duck Cup I" role="button" tabindex="0"><img alt="Duck Cup I by Joey Downey, with the yellow duck facing left" loading="lazy" src="assets/cups/IMG_8671.jpg?v=cover-60112f2115"/><h3 class="item-title">Duck Cup I</h3><p class="item-desc">Earthenware, glaze, underglaze<br/>5.5&quot; x 6&quot; x 5.5&quot;<br/>2026<br/><span class="item-price">NFS</span></p></article></div></div></section></div><div aria-label="Artwork image viewer" class="lightbox" id="lightbox" role="dialog"><button aria-label="Close" class="close">×</button><button type="button" class="artwork-nav artwork-prev" aria-label="Previous artwork"><svg aria-hidden="true" focusable="false" width="20" height="28" viewBox="0 0 20 28" fill="none" stroke="currentColor" stroke-width="2" stroke-linecap="round" stroke-linejoin="round"><path d="m14 5-9 9 9 9"/></svg></button><button type="button" class="artwork-nav artwork-next" aria-label="Next artwork"><svg aria-hidden="true" focusable="false" width="20" height="28" viewBox="0 0 20 28" fill="none" stroke="currentColor" stroke-width="2" stroke-linecap="round" stroke-linejoin="round"><path d="m6 5 9 9-9 9"/></svg></button><div class="lightbox-images"><img alt="Artwork enlarged" id="lb-img"/><img alt="Artwork detail" id="lb-detail-img" hidden=""/><img alt="Artwork additional view" id="lb-third-img" hidden=""/></div><div id="lb-caption"><p id="lb-title"></p><p id="lb-details"></p><div id="lb-availability"></div></div></div></main><footer class="footer"><span>© 2026 Joey Downey. All artwork images © Joey Downey. <span class="last-edited">Last edited: <time datetime="2026-11-12">November 12, 2026</time></span></span><span>Contemporary ceramics &amp; mixed media</span><a href="mailto:joeydowneyart@gmail.com">Contact ↗</a></footer><script>const ART_IMAGES={"cups/IMG_8679.jpg":"assets/cups/IMG_8679.jpg","cups/IMG_8680.jpg":"assets/cups/IMG_8680.jpg","cups/IMG_8681.jpg":"assets/cups/IMG_8681.jpg","cups/IMG_8682.jpg":"assets/cups/IMG_8682.jpg","cups/IMG_8683.jpg":"assets/cups/IMG_8683.jpg","cups/IMG_8684.jpg":"assets/cups/IMG_8684.jpg","cups/IMG_8686.jpg":"assets/cups/IMG_8686.jpg","cups/IMG_8687.jpg":"assets/cups/IMG_8687.jpg","cups/IMG_8688.jpg":"assets/cups/IMG_8688.jpg","cups/IMG_8689.jpg":"assets/cups/IMG_8689.jpg","cups/IMG_8690.jpg":"assets/cups/IMG_8690.jpg","cups/IMG_8691.jpg":"assets/cups/IMG_8691.jpg","cups/IMG_8692.jpg":"assets/cups/IMG_8692.jpg","cups/IMG_8693.jpg":"assets/cups/IMG_8693.jpg?v=20261112-edited-2","cups/IMG_8694.jpg":"assets/cups/IMG_8694.jpg","cups/IMG_8696.jpg":"assets/cups/IMG_8696.jpg","cups/IMG_8695.jpg":"assets/cups/IMG_8695.jpg","cups/IMG_8699.jpg":"assets/cups/IMG_8699.jpg","cups/IMG_8698.jpg":"assets/cups/IMG_8698.jpg","cups/IMG_8700.jpg":"assets/cups/IMG_8700.jpg","cups/IMG_8701.jpg":"assets/cups/IMG_8701.jpg","cups/IMG_8702.jpg":"assets/cups/IMG_8702.jpg","cups/IMG_8703.jpg":"assets/cups/IMG_8703.jpg","cups/IMG_8704.jpg":"assets/cups/IMG_8704.jpg","cups/IMG_8705.jpg":"assets/cups/IMG_8705.jpg","cups/IMG_8707.jpg":"assets/cups/IMG_8707.jpg","cups/IMG_8708.jpg":"assets/cups/IMG_8708.jpg","cups/IMG_8709.jpg":"assets/cups/IMG_8709.jpg","cups/IMG_8711.jpg":"assets/cups/IMG_8711.jpg","cups/IMG_8710.jpg":"assets/cups/IMG_8710.jpg?v=20261112-edited-2","cups/IMG_8712.jpg":"assets/cups/IMG_8712.jpg","cups/IMG_8715.jpg":"assets/cups/IMG_8715.jpg","cups/IMG_8714.jpg":"assets/cups/IMG_8714.jpg","cups/IMG_8718.jpg":"assets/cups/IMG_8718.jpg","cups/IMG_8719.jpg":"assets/cups/IMG_8719.jpg","cups/IMG_8717.jpg":"assets/cups/IMG_8717.jpg","cups/IMG_8720.jpg":"assets/cups/IMG_8720.jpg","cups/IMG_8722.jpg":"assets/cups/IMG_8722.jpg","cups/IMG_8721.jpg":"assets/cups/IMG_8721.jpg","cups/IMG_8670.jpg":"assets/cups/IMG_8670.jpg","cups/IMG_8671.jpg":"assets/cups/IMG_8671.jpg?v=cover-60112f2115","cups/IMG_8672.jpg":"assets/cups/IMG_8672.jpg"};
 (()=>{const menu=document.querySelector('.menu');const nav=document.querySelector('.nav');if(!menu||!nav)return;function closeMenu(){nav.classList.remove('open');menu.setAttribute('aria-expanded','false')}menu.addEventListener('click',()=>{nav.classList.toggle('open');menu.setAttribute('aria-expanded',String(nav.classList.contains('open')))});document.addEventListener('click',event=>{if(nav.classList.contains('open')&&!menu.contains(event.target)&&!nav.contains(event.target))closeMenu()});document.addEventListener('keydown',event=>{if(event.key==='Escape'&&nav.classList.contains('open')){closeMenu();menu.focus()}})})();const lb=document.getElementById('lightbox');
 if(lb){
   const images=lb.querySelector('.lightbox-images');
